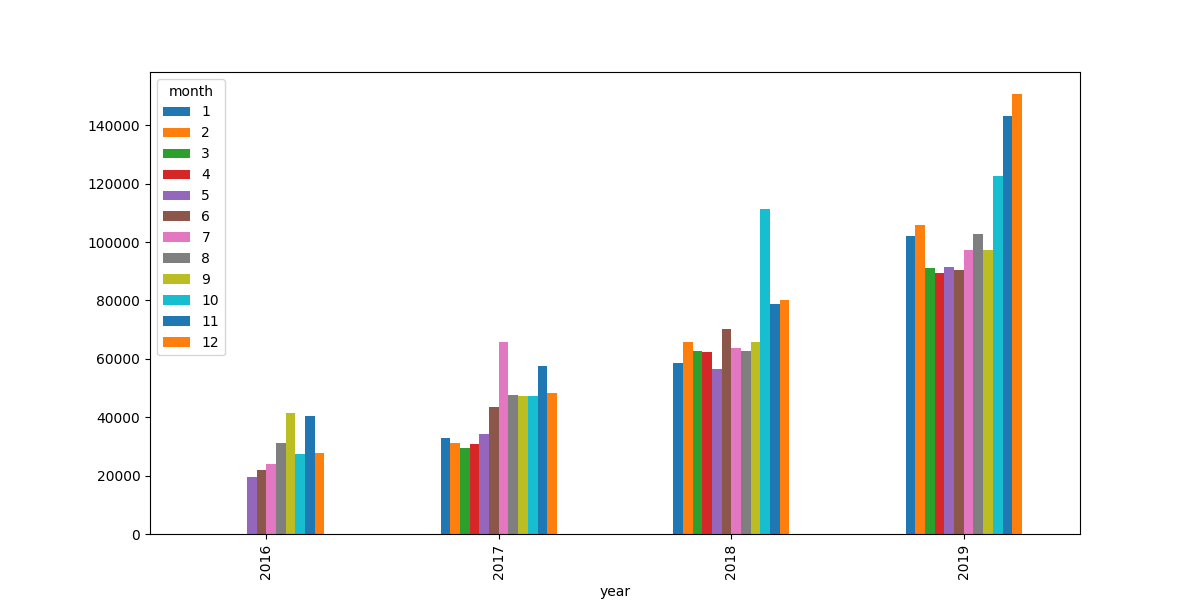
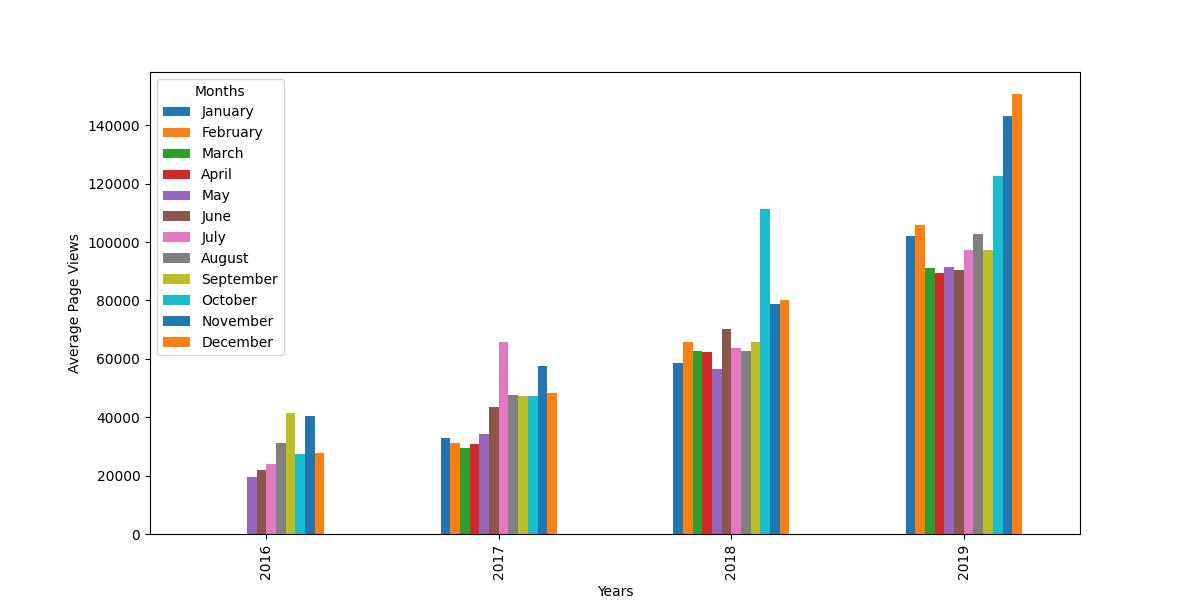
Draw bar plot task

Changed region(s): [[0.1542, 0.12, 0.2467, 0.6], [0.4933, 0.96, 0.5242, 1.0]]

diff --git a/boilerplate-page-view-time-series-visualizer/time_series_visualizer.py b/boilerplate-page-view-time-series-visualizer/time_series_visualizer.py
@@ -1,5 +1,6 @@
 import matplotlib.pyplot as plt
 import pandas as pd
+import calendar
 import seaborn as sns
 from pandas.plotting import register_matplotlib_converters
 
@@ -34,19 +35,42 @@ def draw_line_plot():
 def draw_bar_plot():
     # Copy and modify data for monthly bar plot
     df_bar = df.copy()
-    df_bar["year"] = df.index.year
-    df_bar["month"] = df.index.month
-    df_bar = df_bar.groupby(["year", "month"])
+    df_bar["Year"] = df.index.year
+    df_bar["Months"] = df.index.month
+    df_bar = df_bar.groupby(["Year", "Months"])
 
     df_grouped = df_bar["value"].mean().reset_index(name="avg")
 
-    pivoted_df = df_grouped.pivot(columns="month", values="avg", index="year").fillna(0)
+    pivoted_df = df_grouped.pivot(columns="Months", values="avg", index="Year").fillna(
+        0
+    )
 
-    print(pivoted_df.head())
+    # Rename the columns for 1 to jan, 2 to feb...
+    pivoted_df.rename(
+        columns={
+            1: "January",
+            2: "February",
+            3: "March",
+            4: "April",
+            5: "May",
+            6: "June",
+            7: "July",
+            8: "August",
+            9: "September",
+            10: "October",
+            11: "November",
+            12: "December",
+        },
+        inplace=True,
+    )
+
+    # print(pivoted_df.head())
 
     # Draw bar plot
     fig, ax = plt.subplots(figsize=(12, 6))
     pivoted_df.plot(kind="bar", stacked=False, ax=ax)
+    ax.set_xlabel("Years")
+    ax.set_ylabel("Average Page Views")
 
     # Save image and return fig (don't change this part)
     fig.savefig("bar_plot.png")
